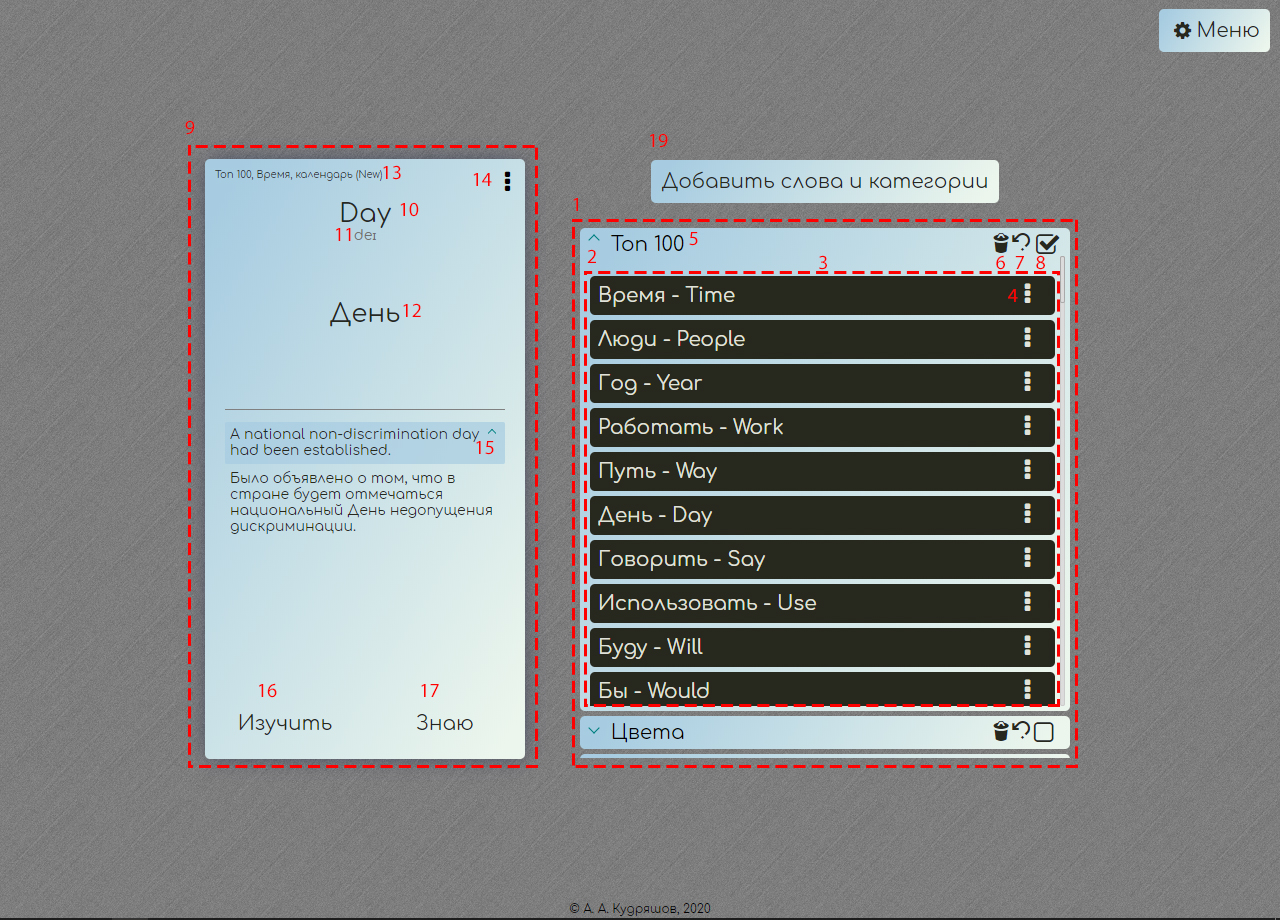
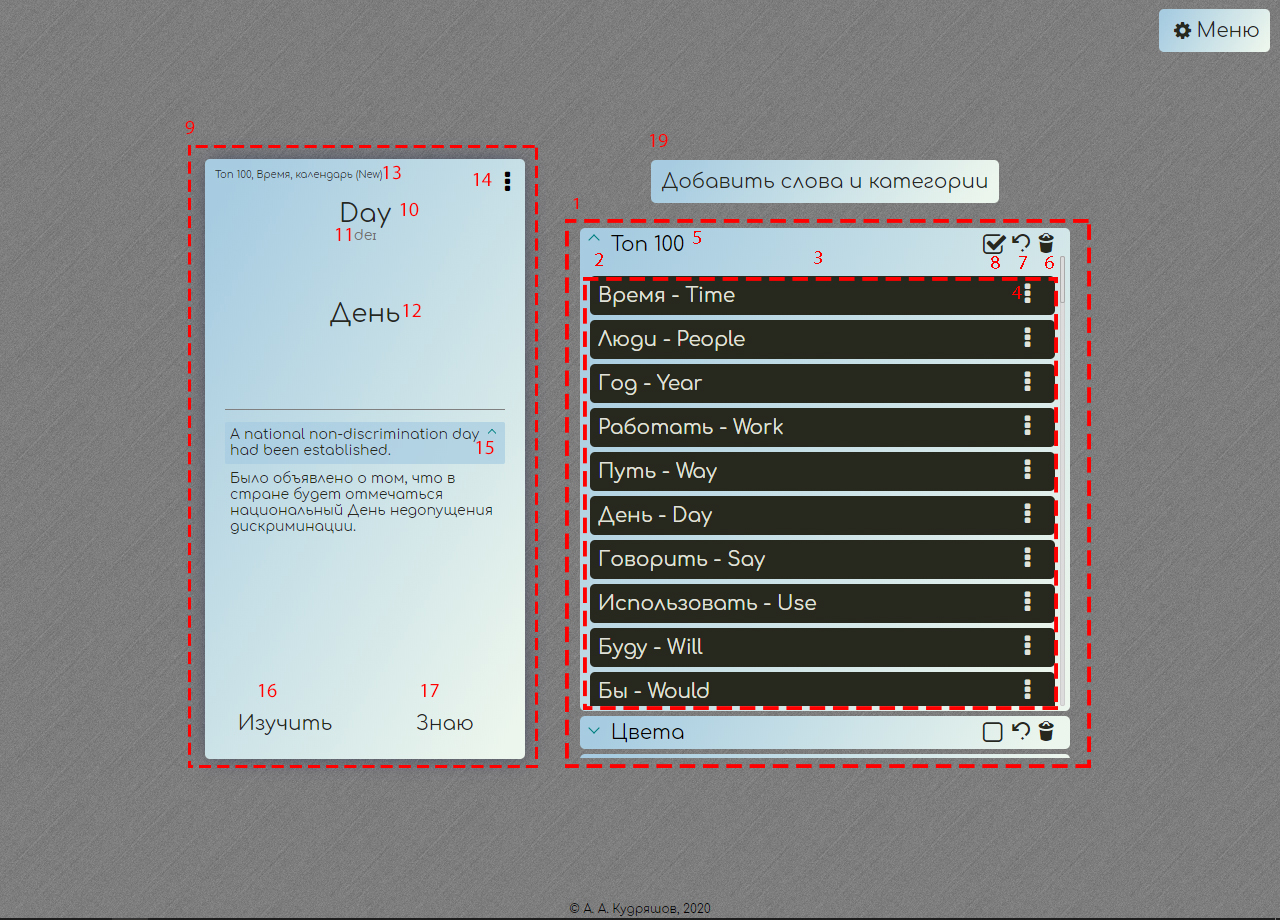
btns place

Changed region(s): [[0.4375, 0.213, 0.8438, 0.8522], [0.6875, 0.8217, 0.7188, 0.8522], [0.5, 0.8217, 0.5312, 0.8522]]

diff --git a/words-memorizer/css/style.css b/words-memorizer/css/style.css
@@ -346,7 +346,7 @@ th {
   border: none;
   color: #27281e;
   position: absolute;
-  right: 5px;
+  right: 58px;
   top: 4px;
   font-size: 25px;
   cursor: pointer;
@@ -356,11 +356,11 @@ th {
   border: none;
   color: #27281e;
   position: absolute;
-  right: 5px;
+  right: 58px;
   top: 4px;
   font-size: 25px;
   cursor: pointer;
-  right: 55px;
+  right: 10px;
   font-size: 20px;
 }
 .cardWrap #categoriesBlock #categoriesList .category_item .clearCategory {
@@ -368,16 +368,15 @@ th {
   border: none;
   color: #27281e;
   position: absolute;
-  right: 5px;
+  right: 58px;
   top: 4px;
   font-size: 25px;
   cursor: pointer;
   right: 35px;
-  top: 3px;
   font-size: 20px;
 }
 .cardWrap #categoriesBlock #categoriesList .category_item .icon-check-empty {
-  right: 9px;
+  right: 60px;
 }
 .cardWrap #categoriesBlock #categoriesList .category_item .wordInCategory {
   background-color: #27281e;

diff --git a/words-memorizer/index.html b/words-memorizer/index.html
@@ -482,7 +482,7 @@
       <span class="category_item_name" contenteditable="true" title="Кликните чтобы переименовать"></span>
       <button class="checkedList icon-check-empty" title="Включить категорию в изучение"></button>
       <button class="clearCategory icon-undo" title="Очистить категорию"></button>
-      <button class="icon-trash deleteCategory" title="Удалить категорию"></button>
+      <button class="deleteCategory icon-trash" title="Удалить категорию"></button>
       <ul class="wordsList" style="display: none;"></ul>
     </li>
   </template>

diff --git a/words-memorizer/css/style.less b/words-memorizer/css/style.less
@@ -388,7 +388,7 @@ th {
           border: none;
           color: @main-color;
           position: absolute;
-          right: 5px;
+          right: 58px;
           top: 4px;
           font-size: 25px;
           cursor: pointer;
@@ -396,19 +396,18 @@ th {
 
         .deleteCategory {
           .checkedList;
-          right: 55px;
+          right: 10px;
           font-size: 20px;
         }
 
         .clearCategory {
           .checkedList;
           right: 35px;
-          top: 3px;
           font-size: 20px;
         }
 
         .icon-check-empty {
-          right: 9px;
+          right: 60px;
         }
 
         .wordInCategory {
